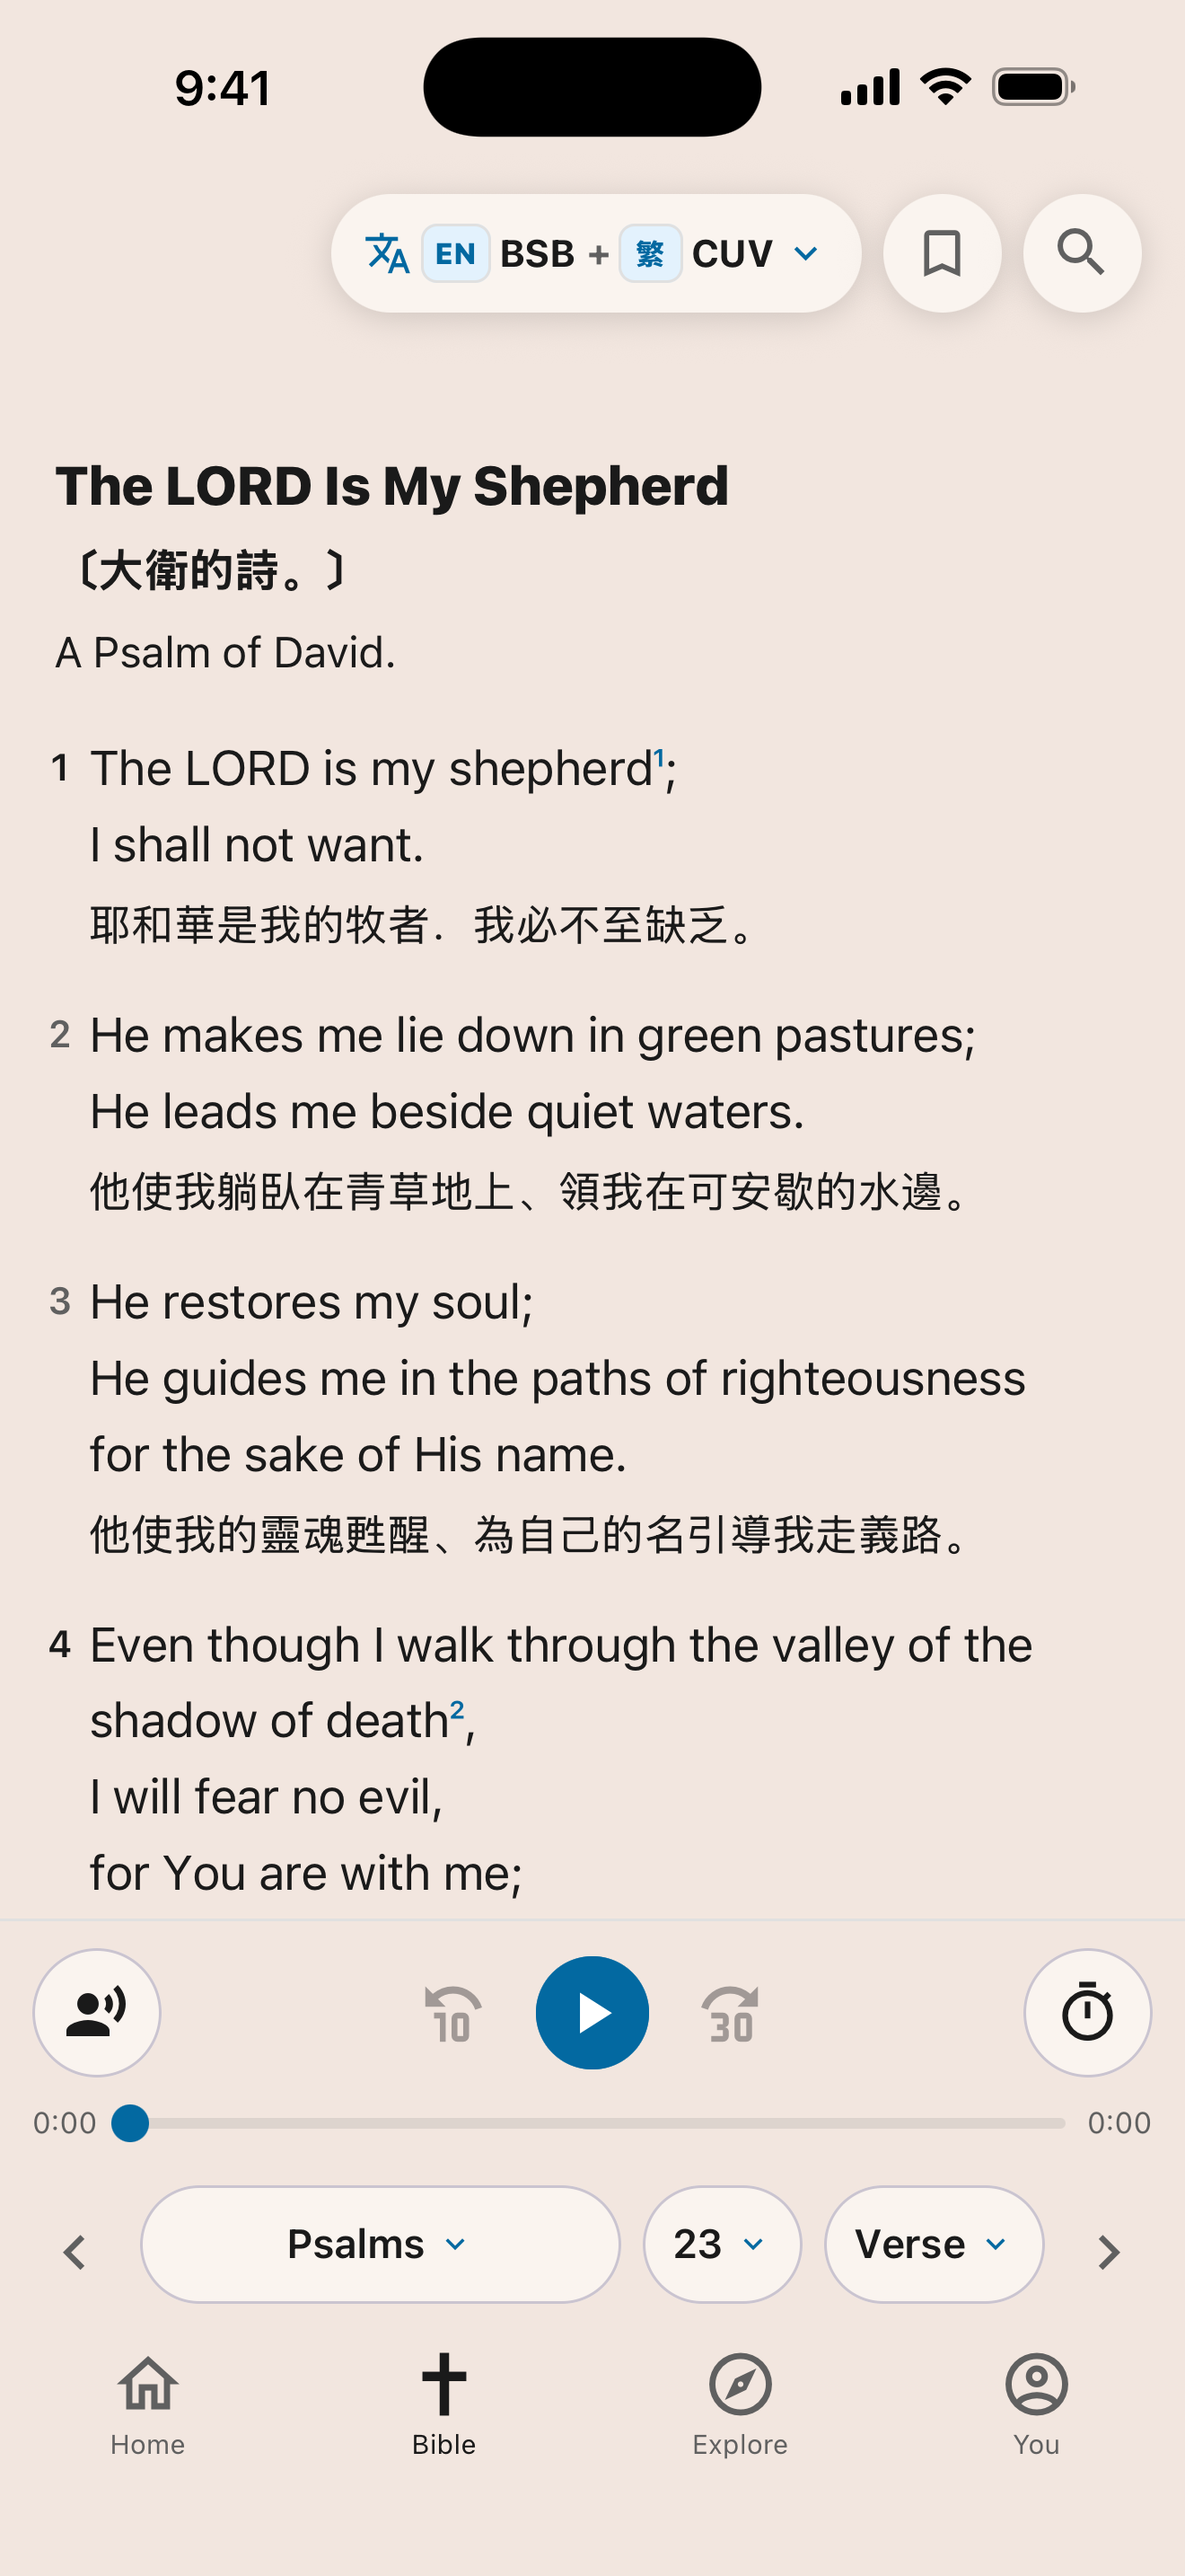
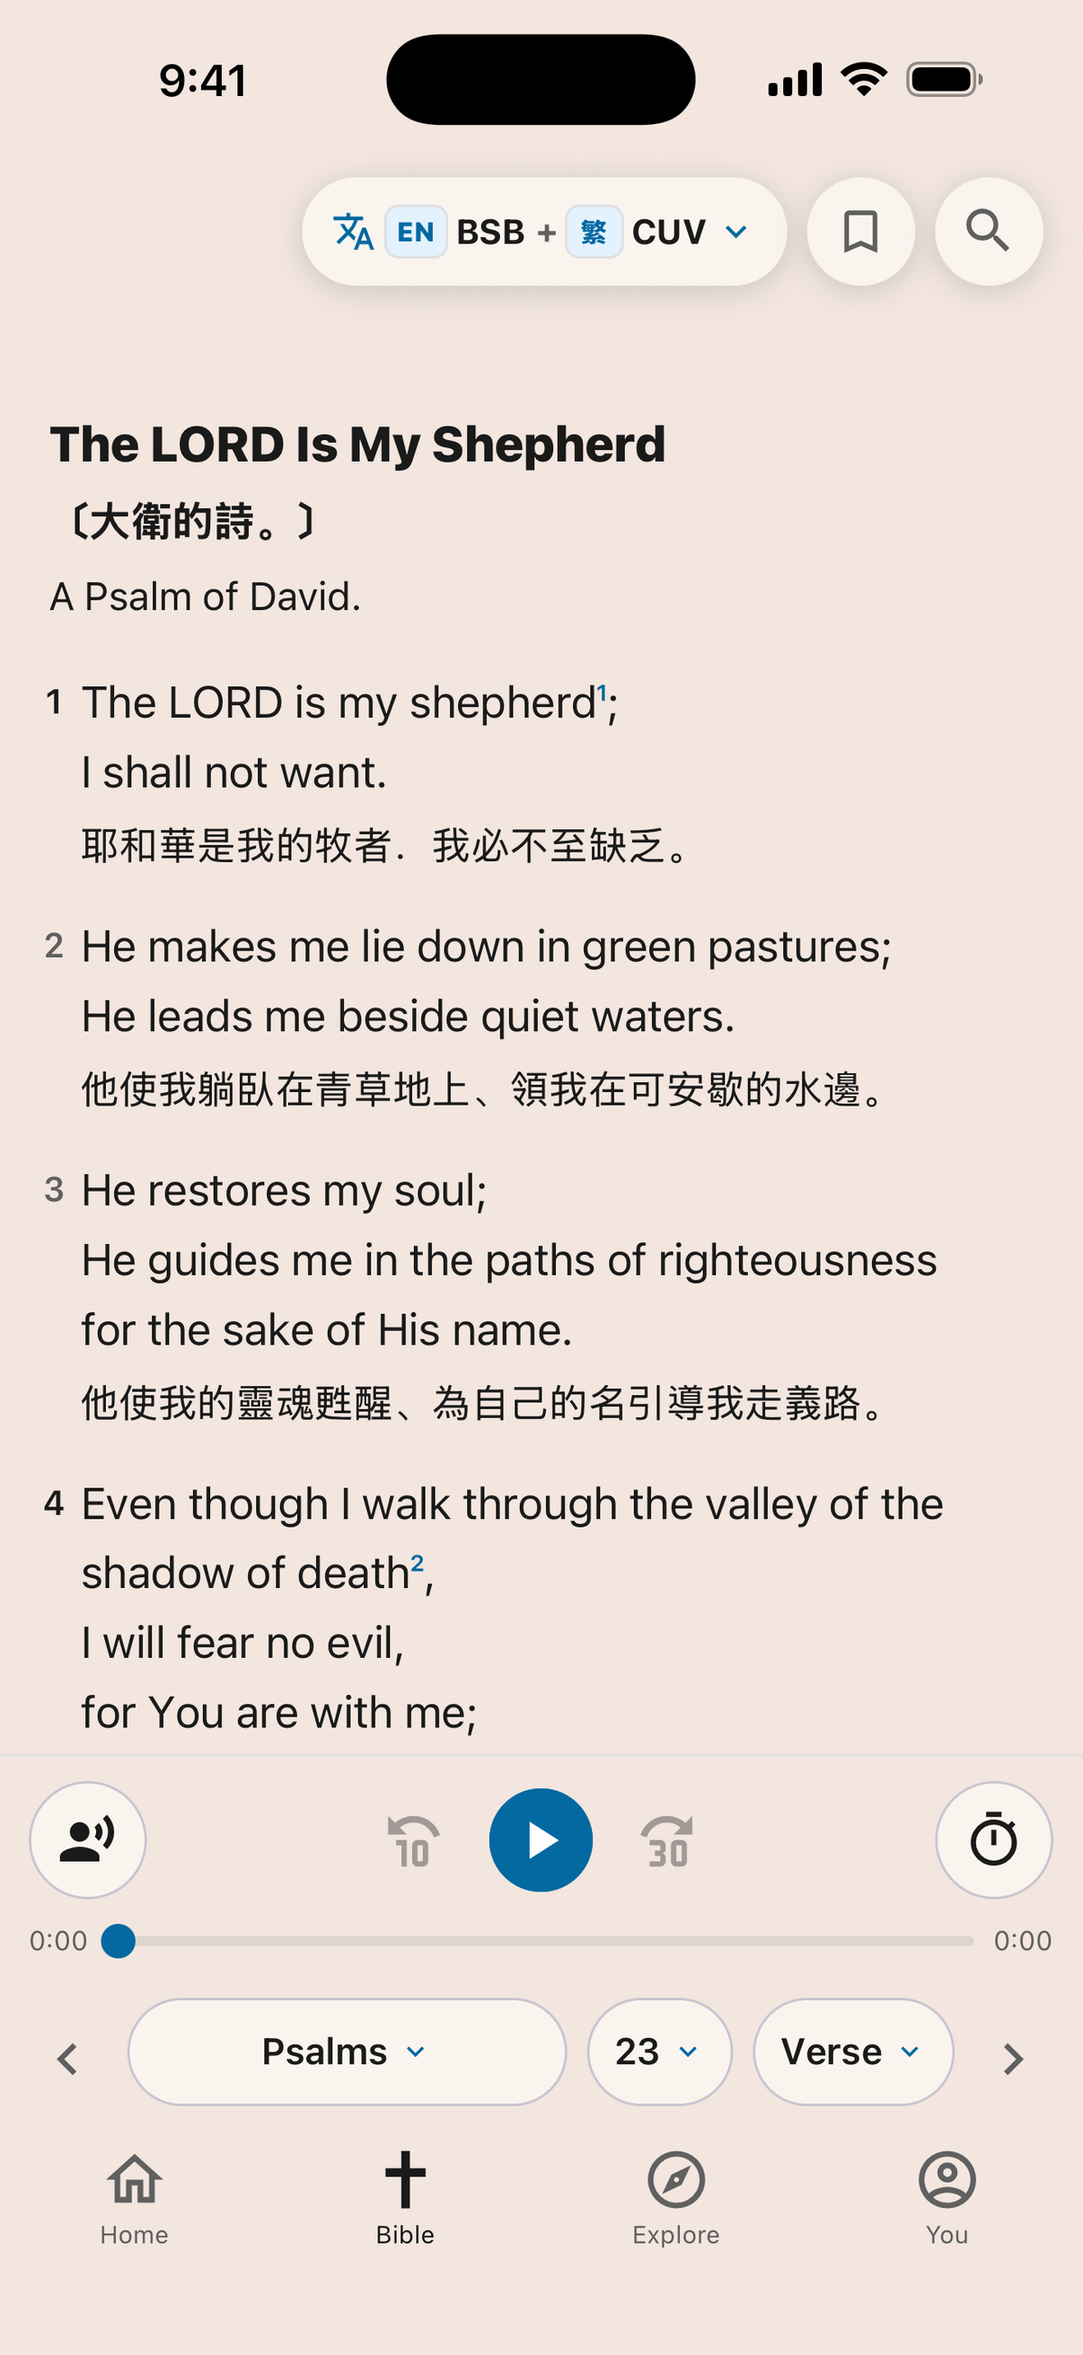
App Store screenshots at 1206 × 2622, the size App Store Connect takes, and version 1.4.1
App Store Connect's iPhone slot, "iPhone with Dynamic Island (medium
display)", takes only 1179 × 2556 or 1206 × 2622, and rejected the 1.4.0
screenshots at the Simulator's 1320 × 2868.

- docs/store-assets/app-store/en-US: the six screenshots scaled to
  1206 × 2622, as uploaded for 1.4.0.
- The iOS key screens write their App Store copies at 1206 × 2622. The
  Google Play copies keep their size: the shared step that removes
  transparency no longer scales.
- The header script uses the new screenshots' shape.
- store-listing.md, the store assets README, and native-builds.md say so.
- Version 1.4.1, so this can reach main: 1.4.0 is tagged. Nothing in the
  app changes.

diff --git a/test/screens.test.ts b/test/screens.test.ts
@@ -498,7 +498,8 @@ describe('App Store copies', () => {
 
     await writeAppStoreCopy(source, copy);
     const meta = await sharp(copy).metadata();
-    expect(meta).toMatchObject({ width: 40, height: 80, channels: 3, hasAlpha: false });
+    // At the size App Store Connect's iPhone slot takes (1206 × 2622).
+    expect(meta).toMatchObject({ width: 1206, height: 2622, channels: 3, hasAlpha: false });
     const { data } = await sharp(copy).raw().toBuffer({ resolveWithObject: true });
     expect([...data.subarray(0, 3)]).toEqual([200, 120, 40]);
   });

diff --git a/public/sw.js b/public/sw.js
@@ -2,7 +2,7 @@
 // which sets it together with package.json and app.json. CI checks that they match.
 // It controls the web app's pop-up telling users a new version is available.
 // Don't edit it by hand.
-const VERSION = '1.4.0';
+const VERSION = '1.4.1';
 const CACHE_NAME = `sda-church-v${VERSION}`;
 
 self.addEventListener('install', (event) => {});

diff --git a/docs/operations/store-listing.md b/docs/operations/store-listing.md
@@ -400,16 +400,19 @@ transparency both stores reject. Replace them there whenever the stores get new 
   does both. Play also needs a 1024 × 500 feature
   graphic, described in [Store listing assets](play-console-answers.md#store-listing-assets),
   and the 512 × 512 icon (`public/icon-512x512.png`).
-- **App Store:** iPhone 6.9-inch screenshots only. The app is iPhone-only
+- **App Store:** iPhone screenshots only, at 1206 × 2622. App Store Connect's iPhone slot,
+  **iPhone with Dynamic Island (medium display)**, takes only the 6.1- and 6.3-inch sizes
+  (1179 × 2556 or 1206 × 2622) and rejects 1320 × 2868, which the 1.3.2 listing used.
+  The app is iPhone-only
   (`supportsTablet: false` in `app.json`), so App Store Connect asks for no iPad
   screenshots once the version uses a build made with that setting; iPads still install
   it and run it in iPhone mode. The current set comes from the key screens of the
-  **iOS key screens** run on a release PR, which are 1320 × 2868 with a clean status bar
-  (9:41, full battery and signal); see [Key screens](native-builds.md#key-screens).
-  Screenshots from a real iPhone work too. A Plus or Pro Max already takes the 6.9-inch
-  size (1290 × 2796 or 1320 × 2868); a smaller iPhone's screenshots need resizing to
-  1290 × 2796, which crops only a few pixels. The first three screenshots also show on
-  the install sheet, so lead with the strongest.
+  **iOS key screens** run on a release PR, whose App Store copies are scaled from the
+  Simulator's 1320 × 2868 to 1206 × 2622, with a clean status bar (9:41, full battery and
+  signal); see [Key screens](native-builds.md#key-screens). Screenshots from a real
+  iPhone work too: a 6.1- or 6.3-inch iPhone takes them at the right size, and a larger
+  one's need scaling to 1206 × 2622, which crops at most a pixel. The first three
+  screenshots also show on the install sheet, so lead with the strongest.
 - **App Store header:** one per language, in
   [`docs/store-assets/app-store/header/`](../store-assets/README.md). Upload each under
   **Header and Search Results → Header** with that language selected, or through the

diff --git a/docs/operations/native-builds.md b/docs/operations/native-builds.md
@@ -917,10 +917,11 @@ Each push needs a new approval, and the job fails if the environment doesn't req
 one. [Approving the screenshots](admin-runbook.md#approving-the-screenshots) has the
 steps and the setup.
 
-**App Store screenshots.** The images are 1320 × 2868, the App Store's 6.9-inch iPhone
-size. The shots listed under `appStore` in the screen list are also copied, numbered in
-upload order, to `screens/app-store/<language>/`, without the transparency the
-Simulator's PNGs have, which App Store Connect rejects. They're ready to upload; see
+**App Store screenshots.** The Simulator's images are 1320 × 2868. The shots listed under
+`appStore` in the screen list are also copied, numbered in upload order, to
+`screens/app-store/<language>/`, scaled to 1206 × 2622 and without the transparency the
+Simulator's PNGs have: App Store Connect's iPhone slot, **iPhone with Dynamic Island
+(medium display)**, takes only 1179 × 2556 or 1206 × 2622, and rejects transparency. They're ready to upload; see
 [Store assets](../store-assets/README.md). When to refresh the stores' screenshots is in
 step 2 of the runbook's [Uploading to the stores](admin-runbook.md#uploading-to-the-stores).
 

diff --git a/docs/store-assets/README.md b/docs/store-assets/README.md
@@ -18,8 +18,8 @@ are captured, their sizes, and what they may show are in
   Home, the Bible in English and Chinese, the audio settings with the CUV's audio
   languages, the Bible in the dark theme, Explore, and the Library. The other languages'
   listings show these too.
-- `app-store/en-US/`: the six iPhone screenshots, in upload order, at the 6.9-inch size
-  (1320 × 2868): Home, the Bible in English and Chinese, the Bible in Chinese and
+- `app-store/en-US/`: the six iPhone screenshots, in upload order, at 1206 × 2622, the
+  size App Store Connect's iPhone slot takes: Home, the Bible in English and Chinese, the Bible in Chinese and
   English with the Chinese interface, the Bible in the dark theme, Explore, and the
   Library. Home comes first: the first three appear on the App Store's install sheets,
   and Home shows what the app is. The other languages' listings show these too.
